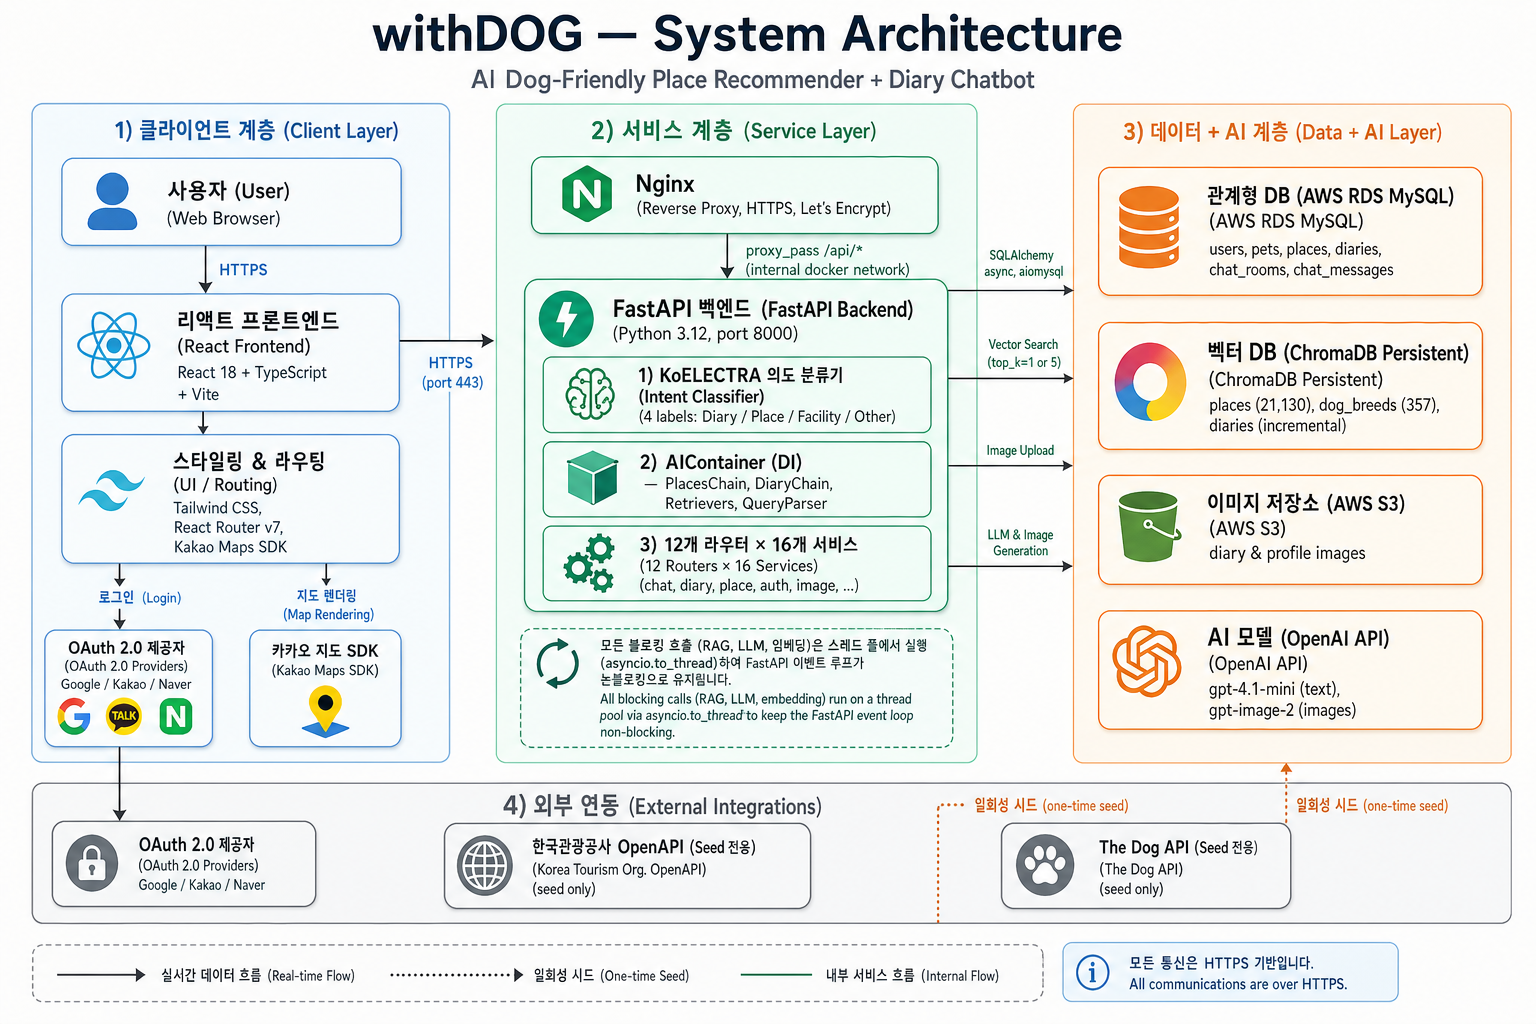
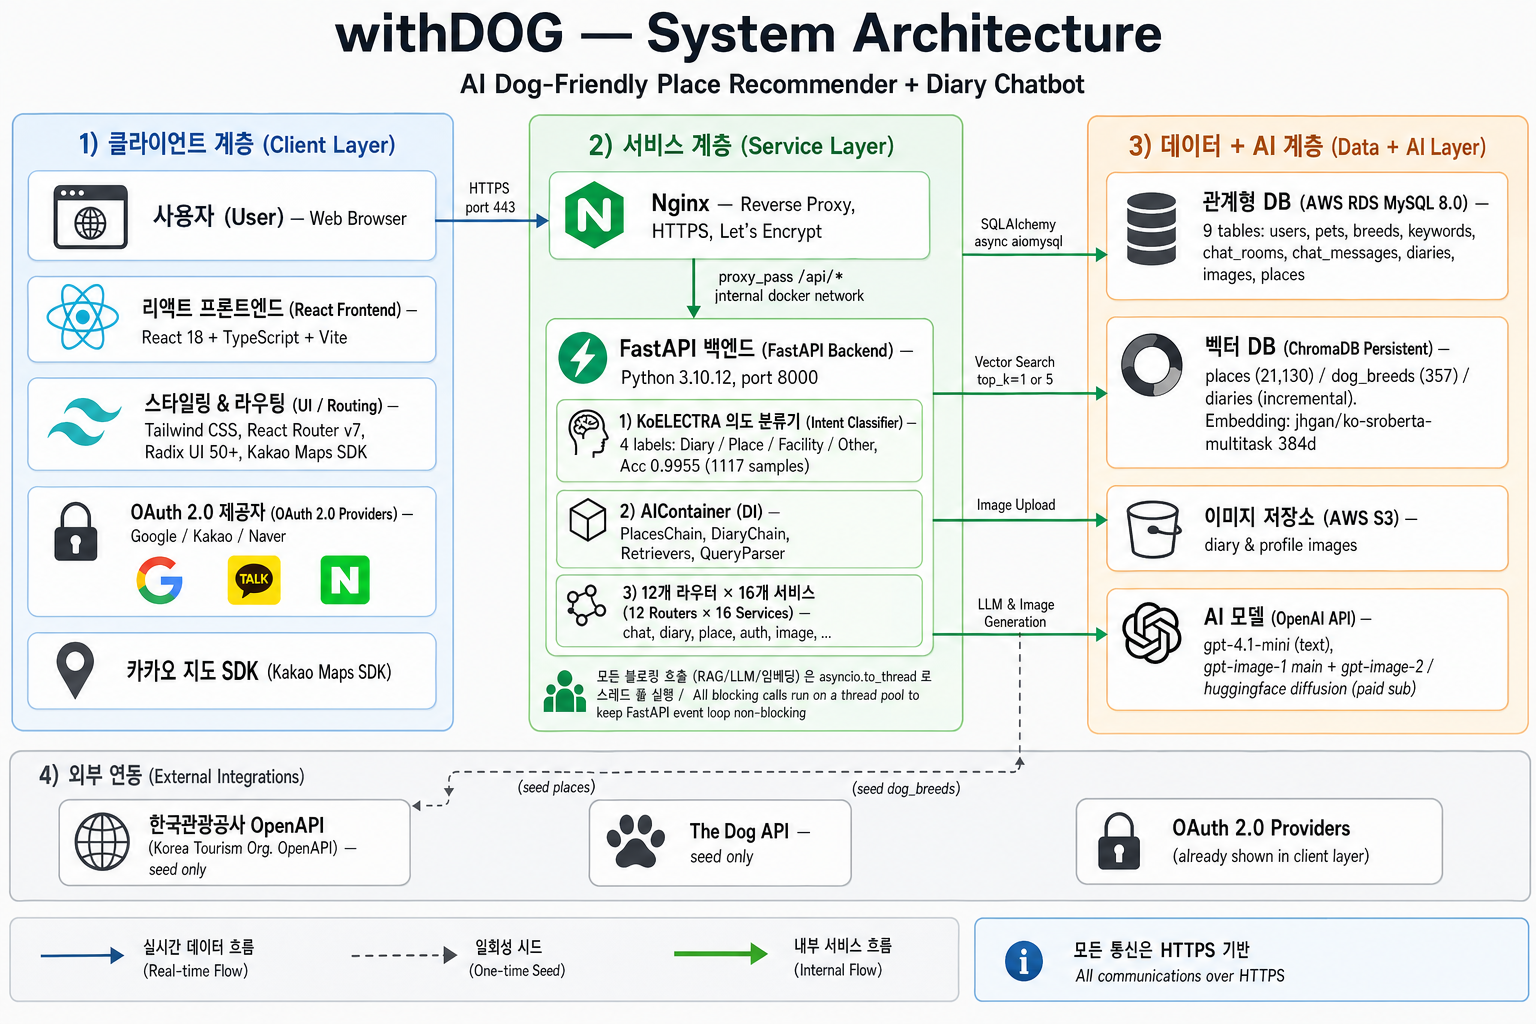
리드미 업데이트

Changed region(s): [[0.0, 0.0, 1.0, 0.9688], [0.25, 0.7812, 0.2812, 0.8125]]

diff --git a/README.md b/README.md
@@ -592,7 +592,7 @@ flowchart TD
 
     F -->|응 / 만들어줘| H["DiaryChain.run()"]
 
-    H --> I["견종 RAG<br>BreedRetriever → ChromaDB"]
+    H --> I["견종 정보<br>RDB breeds 테이블 조회"]
     H --> J["과거 일기 RAG<br>DiaryRetriever → ChromaDB (n=3)"]
 
     I --> K["DiaryPromptBuilder<br>프롬프트 구성"]
@@ -610,7 +610,7 @@ flowchart TD
 
 | 단계 | 내용 |
 |------|------|
-| Step 1 | `BreedRetriever.get_breed_context(breed)` — 견종 정보 ChromaDB 검색 |
+| Step 1 | 견종 정보 조회 — RDB `breeds` 테이블에서 직접 조회 (단일 출처화) |
 | Step 2 | `DiaryRetriever.search(query, user_id, n_results=3)` — 유사 과거 일기 검색 |
 | Step 3 | `DiaryPromptBuilder.build_diary_prompt()` — 일기 생성 프롬프트 구성 |
 | Step 4 | GPT-4.1-mini 호출 — JSON 형식 일기 생성 (제목·본문·요약·이미지 힌트) |
@@ -945,7 +945,7 @@ GPT API 비전 기반 자동 평가로 전환 중이며, 현재는 수동 QA를 
 
   # 7. 서비스 아키텍처
 
-  ![image](./assets/시스템아키텍처.png)
+  ![시스템아키텍처](./assets/시스템아키텍처.png)
 
 </div>
 
@@ -953,57 +953,11 @@ GPT API 비전 기반 자동 평가로 전환 중이며, 현재는 수동 QA를 
 
 ### 전체 구성도
 
-```
-┌─────────────────────────────────────────────────────────────────────┐
-│                         사용자 브라우저                              │
-│                   https://withdog.kro.kr                            │
-└───────────────────────────┬─────────────────────────────────────────┘
-                            │ HTTPS (port 443, Let's Encrypt)
-                            ▼
-┌────────────────────────────────────────────────────────────────────┐
-│                         AWS EC2 (Ubuntu)                           │
-│                                                                    │
-│  ┌─────────────────────── Docker Compose ──────────────────────┐   │
-│  │                    withdog-net (bridge)                     │   │
-│  │                                                             │   │
-│  │  ┌──────────────────────────────────────────────────────┐   │   │
-│  │  │           withdog-nginx  (port 80 → host)            │   │   │
-│  │  │                  Nginx 1.25-alpine                   │   │   │
-│  │  │                                                      │   │   │
-│  │  │  ┌──────────────────┐   ┌──────────────────────────┐ │   │   │
-│  │  │  │  정적 파일 서빙   │   │    API 리버스 프록시     │ │   │   │
-│  │  │  │  React SPA dist  │   │  /api/* → backend:8000   │ │   │   │
-│  │  │  │  (JS/CSS 1년캐시) │   │  SSE/스트리밍 지원       │ │   │   │
-│  │  │  │  SPA fallback    │   │  gzip 압축               │ │   │   │
-│  │  │  └──────────────────┘   └──────────────────────────┘ │   │   │
-│  │  └───────────────────────────────┬──────────────────────┘   │   │
-│  │                                  │ internal                 │   │
-│  │  ┌───────────────────────────────▼──────────────────────┐   │   │
-│  │  │          withdog-backend  (port 8000, internal)      │   │   │
-│  │  │               FastAPI + uvicorn (Python 3.12)        │   │   │
-│  │  │                                                      │   │   │
-│  │  │  ┌──────────────┐  ┌───────────────┐  ┌────────────┐ │   │   │
-│  │  │  │  API Routers │  │  AI Modules   │  │  ChromaDB  │ │   │   │
-│  │  │  │ auth/users   │  │ DiaryChain    │  │ (in-proc)  │ │   │   │
-│  │  │  │ pets/diaries │  │ PlacesChain   │  │  장소 RAG  │ │   │   │
-│  │  │  │ places/chat  │  │ BreedRetriever│  │  견종 RAG  │ │   │   │
-│  │  │  │ images/breeds│  │ Diary/PlacesR.│  │  일기 RAG  │ │   │   │
-│  │  │  └──────────────┘  └───────────────┘  └────────────┘ │   │   │
-│  │  └──────────────────────────────────────────────────────┘   │   │
-│  └─────────────────────────────────────────────────────────────┘   │
-└────────────────────────────────────────────────────────────────────┘
-         │               │                │              │
-         ▼               ▼                ▼              ▼
-  ┌────────────┐  ┌────────────┐  ┌────────────┐  ┌──────────────┐
-  │ AWS RDS    │  │  AWS S3    │  │ OpenAI API │  │ OAuth 2.0    │
-  │  MySQL     │  │ (aioboto3) │  │            │  │              │
-  │            │  │ 이미지/    │  │ GPT-4.1-   │  │ Kakao        │
-  │ users      │  │ 프로필     │  │ mini       │  │ Google       │
-  │ pets       │  │ 업로드     │  │ gpt-image-1│  │ Naver        │
-  │ diaries    │  │            │  │            │  │              │
-  │ places ... │  │            │  │            │  │              │
-  └────────────┘  └────────────┘  └────────────┘  └──────────────┘
-```
+<div align="center">
+
+  ![전체구성도](./assets/전체구성도.png)
+
+</div>
 
 <br />
 
